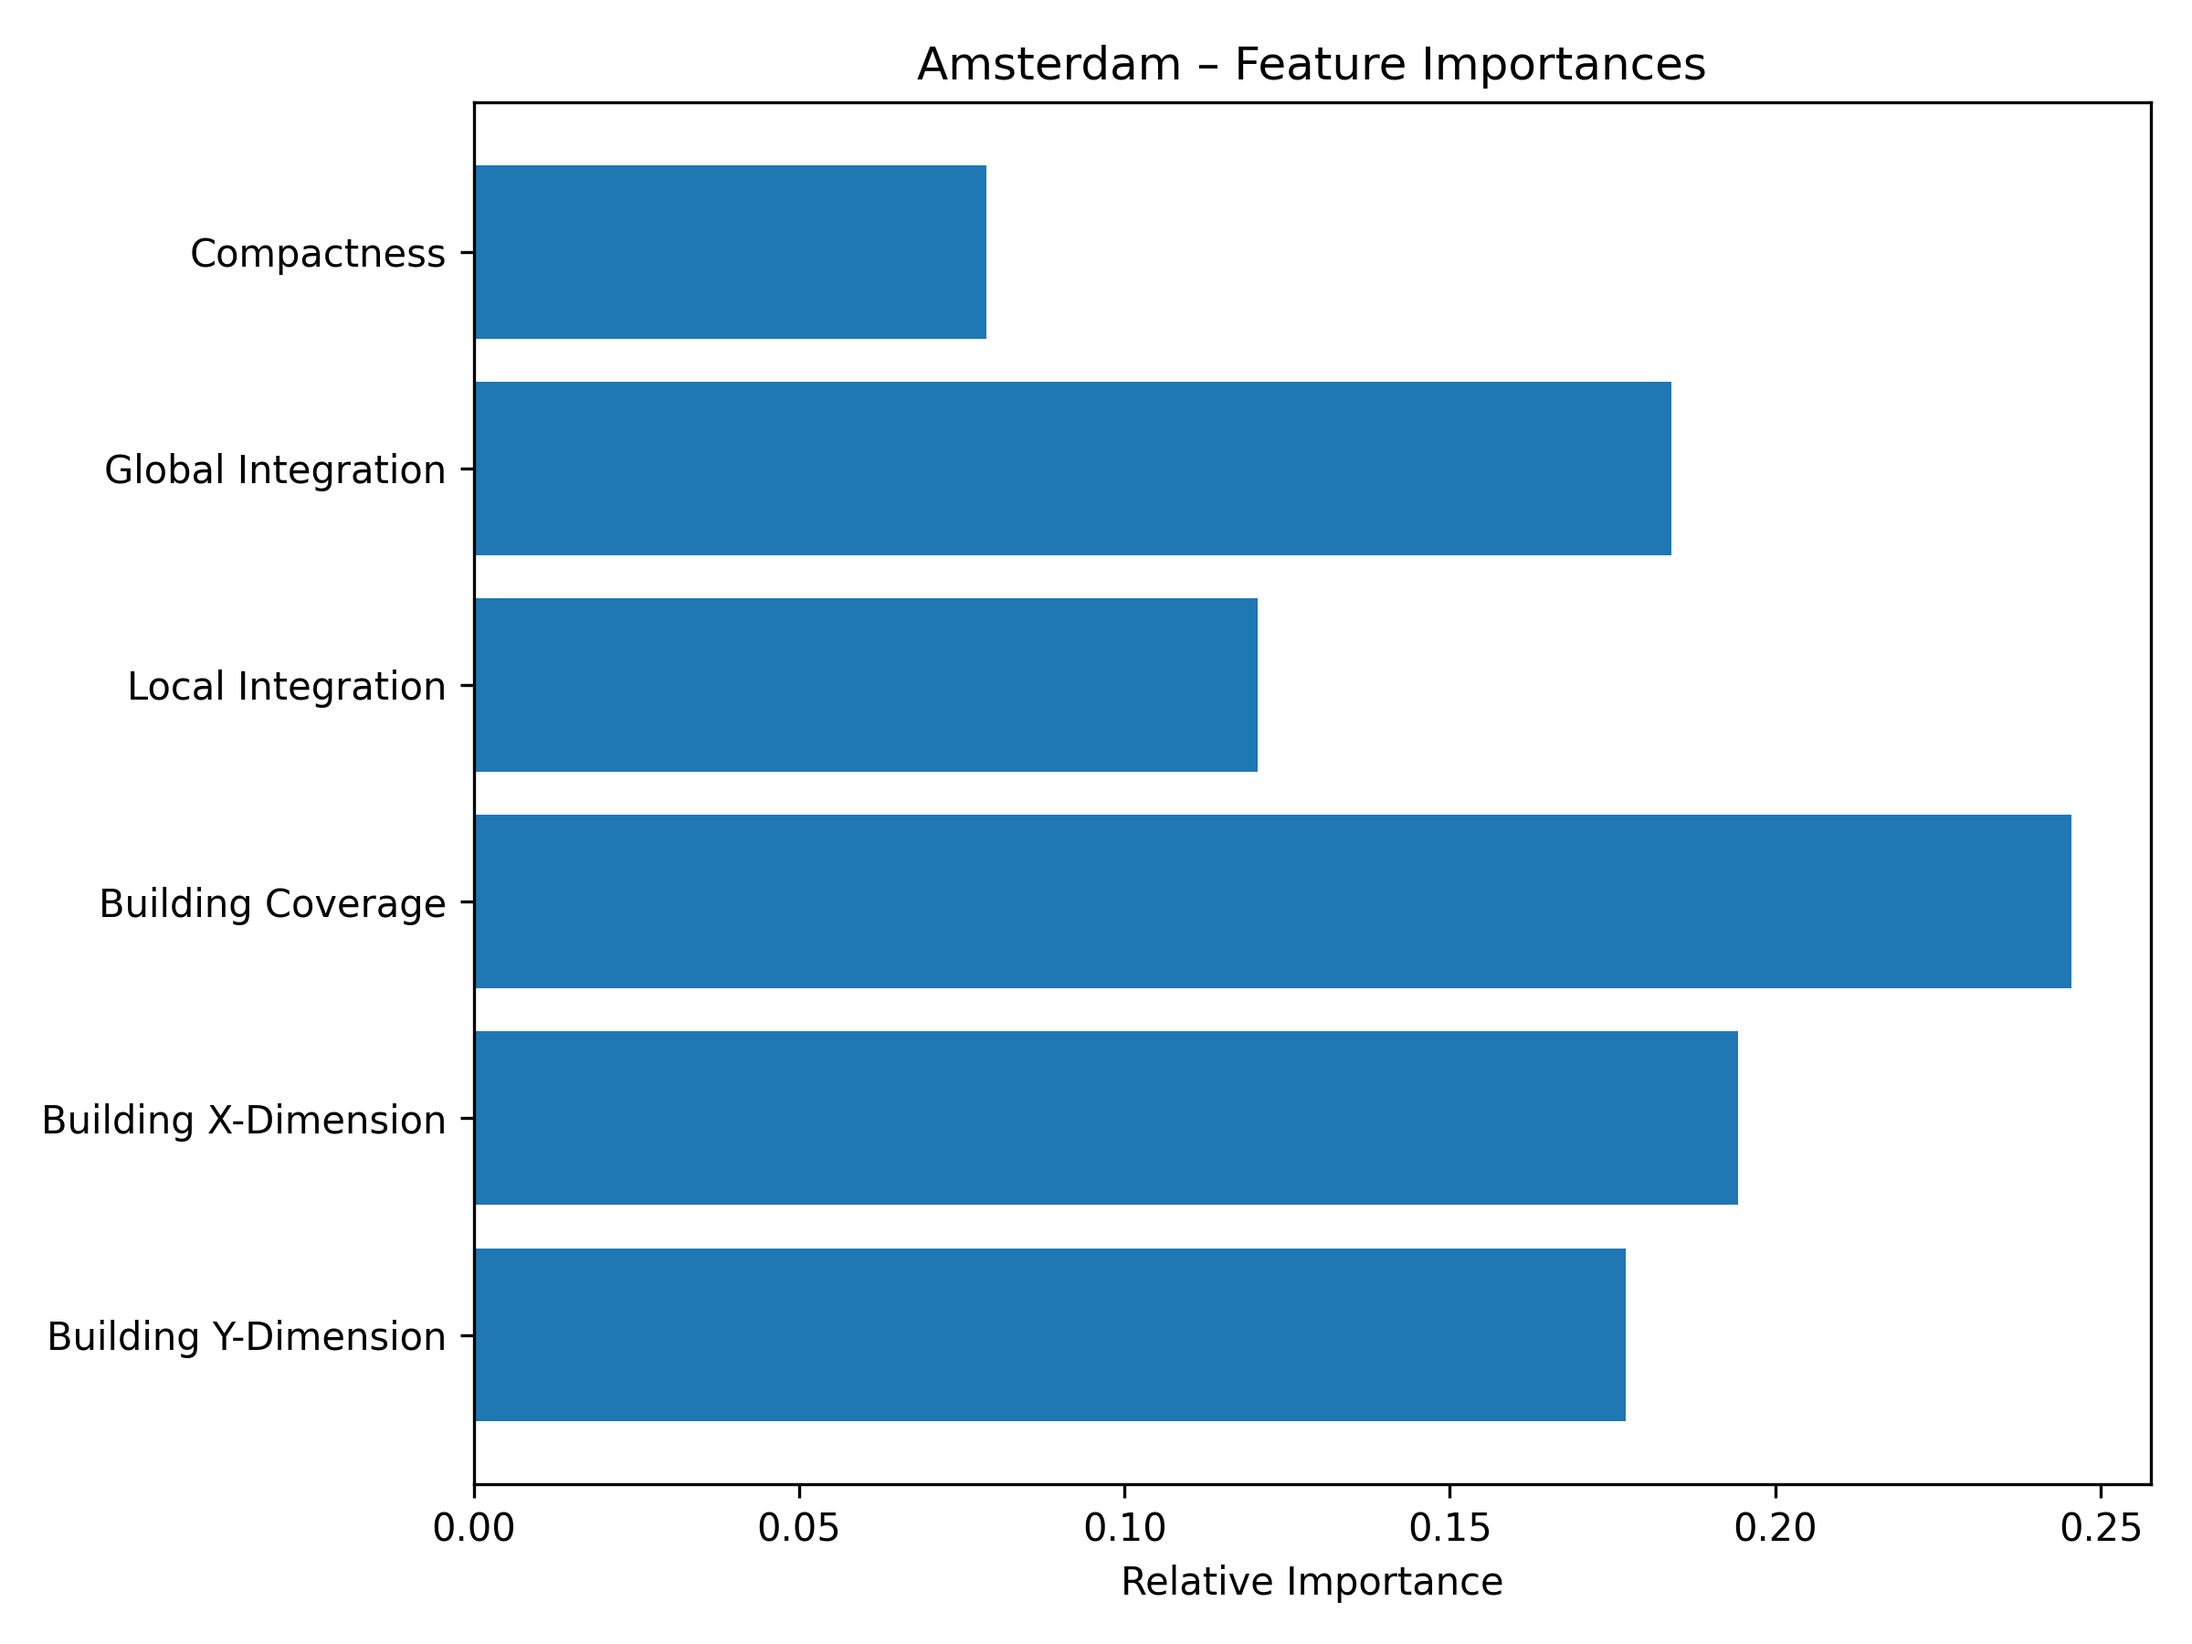
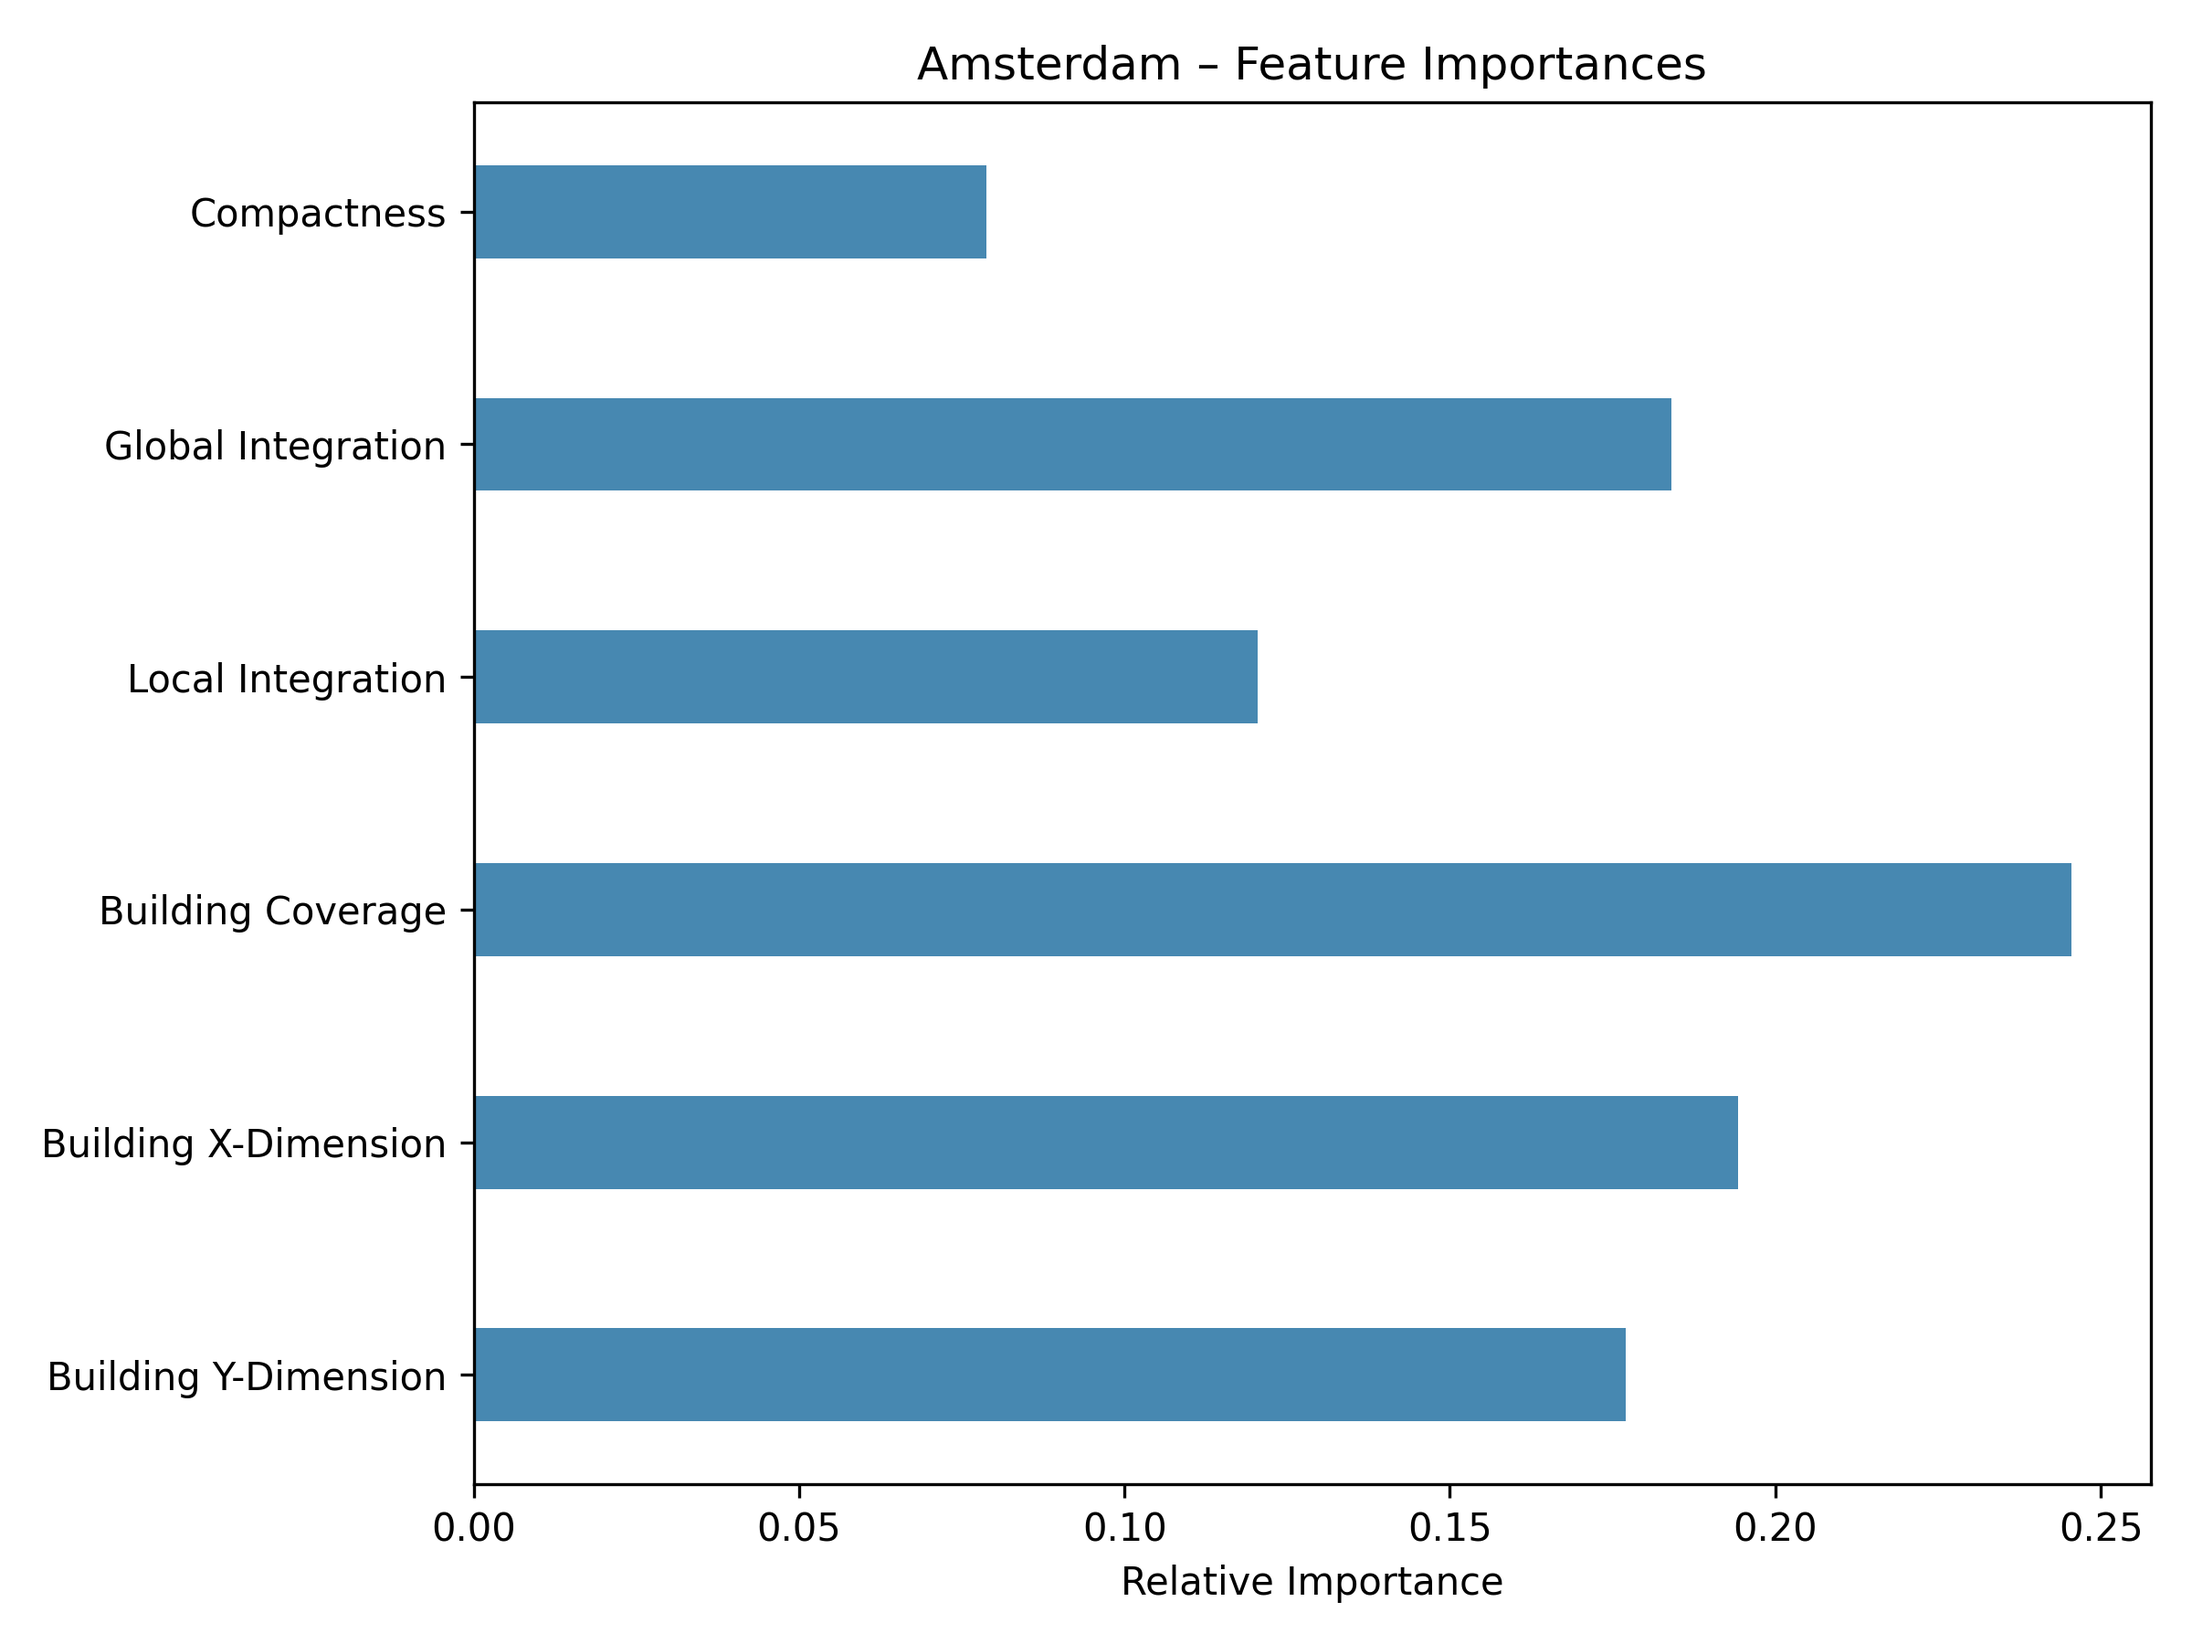
Refactor data preprocessing and visualization scripts for improved clarity and maintainability; update color mappings and edge colors for better visual distinction

diff --git a/data_visualization.py b/data_visualization.py
@@ -13,8 +13,9 @@ from data_preprocessing import load_and_preprocess, FEATURES
 
 # suppress warnings
 warnings.filterwarnings("ignore", category=UndefinedMetricWarning)
+warnings.filterwarnings("ignore", category=RuntimeWarning)
 
-# 0) Reader-friendly display names 
+# 0) Reader-friendly display names
 category_display = {
     "multi-family": "Multi-family",
     "single-family": "Single-family",
@@ -36,24 +37,24 @@ feature_display = {
 
 # Color mapping remains the same
 color_map = {
-    "multi-family": "#1F4E79",
-    "single-family": "#D55E00",
-    "commercial": "#3C7A3F",
-    "industrial": "#A11D21",
-    "public": "#7A4A91",
-    "infrastructure": "#FF5C6A",
-    "other": "#6B4A3F",
+    "multi-family": "#96403f",
+    "single-family": "#ffbf41",
+    "commercial": "#fd3f3f",
+    "industrial": "#d340ff",
+    "public": "#ffcfcf",
+    "infrastructure": "#41d4ff",
+    "other": "#666666",
 }
-light_gray = "#e0e0e0"
+light_gray = "#b1b1b1"
 gray_patch = Patch(color=light_gray, label="Train set")
 
 output_dir = Path("images")
 output_dir.mkdir(exist_ok=True)
 
-# Load & preprocess 
+# Load & preprocess
 df = load_and_preprocess(Path("data/Selected Cities"))
 
-# Per-city visualizations 
+# Per-city visualizations
 for city, sub in df.groupby("city"):
     vc = sub["building_main"].value_counts()
     valid = vc[vc >= 2].index
@@ -88,37 +89,39 @@ for city, sub in df.groupby("city"):
 
     # 1) Side-by-side maps
     fig, (ax0, ax1) = plt.subplots(1, 2, figsize=(16, 8))
-    sub_train.plot(ax=ax0, color=light_gray, linewidth=0.1, edgecolor="gray")
+    sub_train.plot(ax=ax0, color=light_gray, linewidth=0.1, edgecolor="silver")
     for cat in LabelEncoder().fit(sub["building_main"]).classes_:
         mask = sub_test["building_main"] == cat
         if mask.any():
             sub_test[mask].plot(
-                ax=ax0, color=color_map[cat], linewidth=0.1, edgecolor="gray"
+                ax=ax0, color=color_map[cat], linewidth=0.1, edgecolor="silver"
             )
     ax0.set_title(f"{city} – Ground Truth")
     ax0.legend(
         handles=[gray_patch]
         + [
             Patch(color=color_map[c], label=category_display[c])
-            for c in LabelEncoder().fit(sub["building_main"]).classes_
+            for c in color_map.keys()
+            if c in LabelEncoder().fit(sub["building_main"]).classes_
         ],
         loc="lower left",
     )
     ax0.axis("off")
 
-    sub_train.plot(ax=ax1, color=light_gray, linewidth=0.1, edgecolor="gray")
+    sub_train.plot(ax=ax1, color=light_gray, linewidth=0.1, edgecolor="silver")
     for cat in LabelEncoder().fit(sub["building_main"]).classes_:
         mask = sub_test["pred"] == cat
         if mask.any():
             sub_test[mask].plot(
-                ax=ax1, color=color_map[cat], linewidth=0.1, edgecolor="gray"
+                ax=ax1, color=color_map[cat], linewidth=0.1, edgecolor="silver"
             )
     ax1.set_title(f"{city} – Predictions (Acc: {acc:.2f})")
     ax1.legend(
         handles=[gray_patch]
         + [
             Patch(color=color_map[c], label=category_display[c])
-            for c in LabelEncoder().fit(sub["building_main"]).classes_
+            for c in color_map.keys()
+            if c in LabelEncoder().fit(sub["building_main"]).classes_
         ],
         loc="lower left",
     )
@@ -163,7 +166,10 @@ for city, sub in df.groupby("city"):
     importances = model.feature_importances_
     fig3, ax3 = plt.subplots(figsize=(8, 6))
     ax3.barh(
-        [feature_display[f] for f in reversed(FEATURES)], list(reversed(importances))
+        [feature_display[f] for f in reversed(FEATURES)],
+        list(reversed(importances)),
+        color="#4788b1",
+        height=0.4,
     )
     ax3.set_xlabel("Relative Importance")
     ax3.set_title(f"{city} – Feature Importances")
@@ -171,7 +177,7 @@ for city, sub in df.groupby("city"):
     fig3.savefig(output_dir / f"{city}_feature_importance.png", dpi=300)
     plt.close(fig3)
 
-# 4) Overall model on full data 
+# 4) Overall model on full data
 le_all = LabelEncoder().fit(df["building_main"])
 idx_all = df.index.to_numpy()
 idx_tr_all, idx_te_all = train_test_split(
@@ -223,7 +229,12 @@ plt.close(fig4)
 # 4b) Overall feature importance
 feat_imp_all = model_all.feature_importances_
 fig5, ax5 = plt.subplots(figsize=(8, 6))
-ax5.barh([feature_display[f] for f in reversed(FEATURES)], list(reversed(feat_imp_all)))
+ax5.barh(
+    [feature_display[f] for f in reversed(FEATURES)],
+    list(reversed(feat_imp_all)),
+    color="#4788b1",
+    height=0.4,
+)
 ax5.set_xlabel("Relative Importance")
 ax5.set_title("Overall Feature Importances")
 fig5.tight_layout()

diff --git a/data_preprocessing.py b/data_preprocessing.py
@@ -6,7 +6,7 @@ import pandas as pd
 import numpy as np
 from shapely.geometry import Polygon
 
-# ─── Shared settings ────────────────────────────────────────────────────────
+# Shared settings
 FEATURES = [
     "compactnes",
     "global_int",
@@ -62,6 +62,7 @@ GROUP_MAP = {
 }
 
 
+# Function to compute the dimensions of the minimum rotated rectangle
 def rotated_dims(geom: Polygon):
     """Return (min_edge, max_edge) of the geometry’s minimum rotated rectangle."""
     r = geom.minimum_rotated_rectangle
@@ -71,6 +72,7 @@ def rotated_dims(geom: Polygon):
     return min(e1, e2), max(e1, e2)
 
 
+# Function to load and preprocess shapefiles
 def load_and_preprocess(shp_dir: Path, epsg: int = 3857):
     """
     Reads all .shp under shp_dir, tags by city, computes rbox dims,
